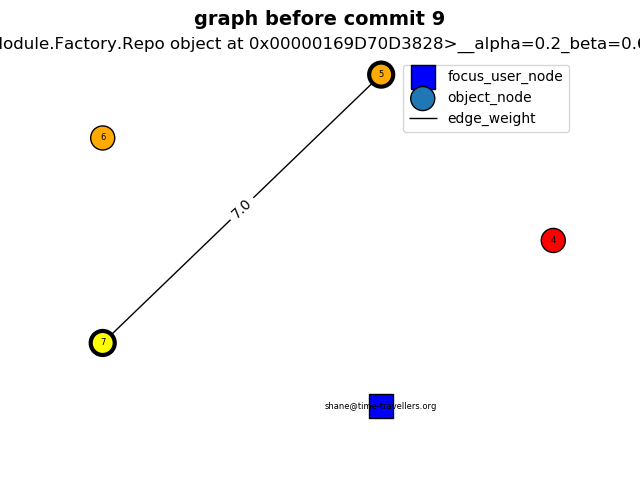
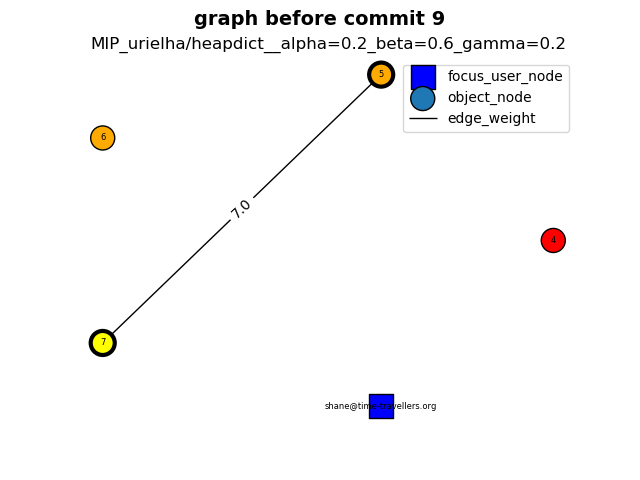
fix name

Changed region(s): [[0.0, 0.0625, 1.0, 0.125]]

diff --git a/src/AnalysisModule/VisualizeGraph.py b/src/AnalysisModule/VisualizeGraph.py
@@ -40,7 +40,7 @@ def draw_users(users_table, users_data, repo_name, result_folder):
 
 def print_results(repo, visualize=False):
     print(f"now working on repo: {repo.name}")
-    mip = Mip(repo)
+    mip = Mip(repo.name)
     csr = CsrFiles()
     result_folder = get_repo_result_dir(repo, [mip.alpha, mip.beta, mip.gamma])
     users_table = deque()

diff --git a/Results/README.md b/Results/README.md
@@ -27,7 +27,7 @@ The user shane is a colaborator in this repository and had in total around 11 co
 as can be seen as x-axis max value (the line is slightly overlapping 10).
 The commits are ordered and numbered from the first commit the user did to the last one.
 
-In this example graph we can see that on the 5th commit:
+In this example graph we can see that **on the 6th commit**:
 
  * our model accuracy is around 0.5.
  * the top_3 accuracy is around 0.5 as well.
